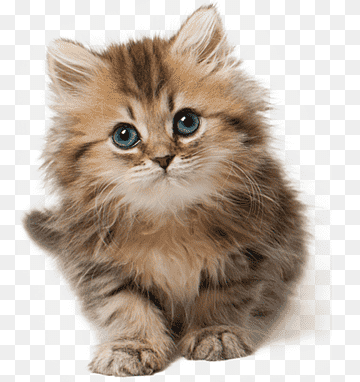
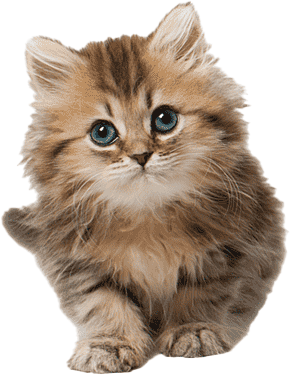
블렌드 기능 추가

diff --git a/MyEngine/EngineDirectDevice.cpp b/MyEngine/EngineDirectDevice.cpp
@@ -30,6 +30,7 @@ EngineDirectDevice::~EngineDirectDevice()
 	PixelShader->Release();
 	TextureSRV->Release();
 	SamplerState->Release();
+	BlendState->Release();
 }
 
 void EngineDirectDevice::Init(HWND _hWnd)
@@ -100,6 +101,7 @@ void EngineDirectDevice::Init(HWND _hWnd)
 	CreateVSResources();
 	CreateRSResources();
 	CreatePSResources();
+	CreateOMResources();
 	CreateInputLayouts();
 }
 
@@ -364,6 +366,32 @@ void EngineDirectDevice::CreatePSResources()
 	}
 }
 
+void EngineDirectDevice::CreateOMResources()
+{
+	{
+		D3D11_BLEND_DESC Desc = {};
+		Desc.AlphaToCoverageEnable = false;
+		Desc.IndependentBlendEnable = false;
+		Desc.RenderTarget[0].BlendEnable = true;
+		Desc.RenderTarget[0].RenderTargetWriteMask = D3D11_COLOR_WRITE_ENABLE_ALL;
+
+		// RGB = SrcRGB * SrcBlend (BlendOp) DestRGB * DestBlend;
+		// Alpha = SrcAlpha * SrcBlendAlpha (BlendOpAlpha) DestAlpha  * DestBlendAlpha
+
+		// RGB = SrcRGB * (1 - SrcAlpha) + DestRGB * Alpha
+		Desc.RenderTarget[0].BlendOp = D3D11_BLEND_OP_ADD;
+		Desc.RenderTarget[0].SrcBlend = D3D11_BLEND_SRC_ALPHA;
+		Desc.RenderTarget[0].DestBlend = D3D11_BLEND_INV_SRC_ALPHA;
+
+		// Alpha = SrcAlpha * 1 (BlendOpAlpha) DestAlpha  * 1
+		Desc.RenderTarget[0].BlendOpAlpha = D3D11_BLEND_OP_ADD;
+		Desc.RenderTarget[0].SrcBlendAlpha = D3D11_BLEND_ONE;
+		Desc.RenderTarget[0].DestBlendAlpha = D3D11_BLEND_ONE;
+
+		HRESULT Result = Device->CreateBlendState(&Desc, &BlendState);
+	}
+}
+
 void EngineDirectDevice::CreateInputLayouts()
 {
 	std::vector<D3D11_INPUT_ELEMENT_DESC> InputElementDescs = {
@@ -411,10 +439,9 @@ void EngineDirectDevice::TestRenderImage()
 	Context->RSSetState(RasterizerState);
 	Context->RSSetViewports(1, &ViewPort);
 	Context->PSSetShader(PixelShader, nullptr, 0);
-
 	Context->PSSetShaderResources(0, 1, &TextureSRV);
 	Context->PSSetSamplers(0, 1, &SamplerState);
-
+	Context->OMSetBlendState(BlendState, float4::Zero.arr, 0xFFFFFFFF);
 	Context->OMSetRenderTargets(1, &BackBufferRTV, nullptr);
 	Context->DrawIndexed(IndexCount, 0, 0);
 }

diff --git a/MyEngineBase/EngineMath.cpp b/MyEngineBase/EngineMath.cpp
@@ -1,6 +1,8 @@
 #include "PreCompile.h"
 #include "EngineMath.h"
 
+float4 float4::Zero = { 0.0f, 0.0f, 0.0f, 0.0f };
+
 EngineMath::EngineMath()
 {
 }

diff --git a/MyEngineBase/EngineMath.h b/MyEngineBase/EngineMath.h
@@ -32,6 +32,11 @@ union float4
 		float b;
 		float a;
 	};
+
+	float arr[4];
+
+public:
+	static float4 Zero;
 };
 
 class EngineMath
